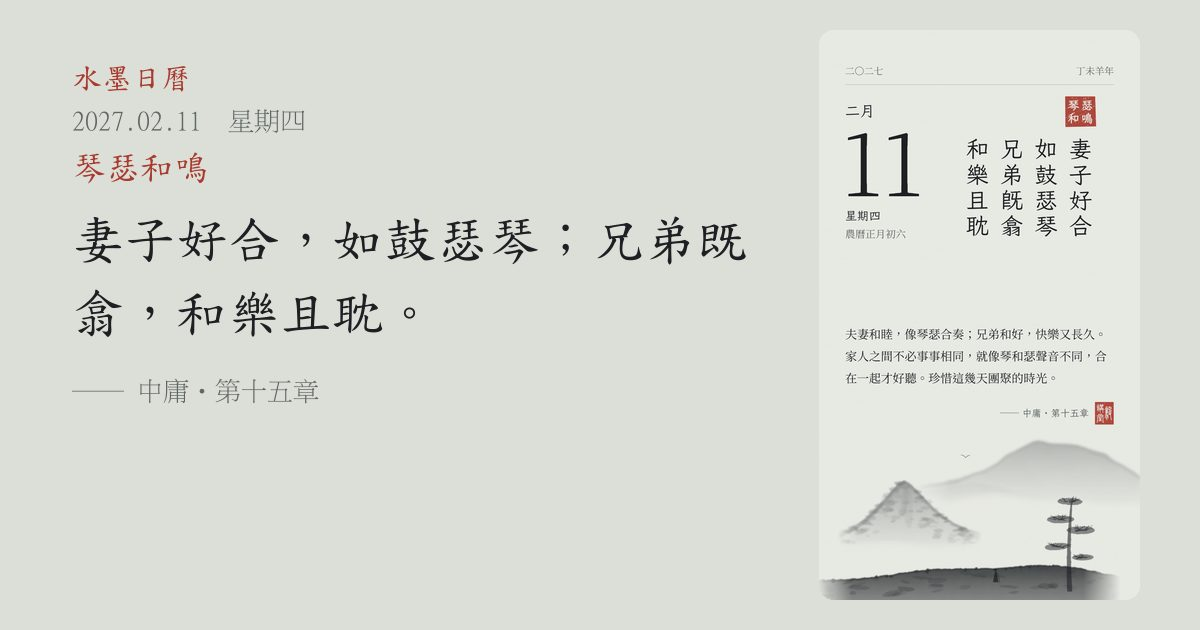
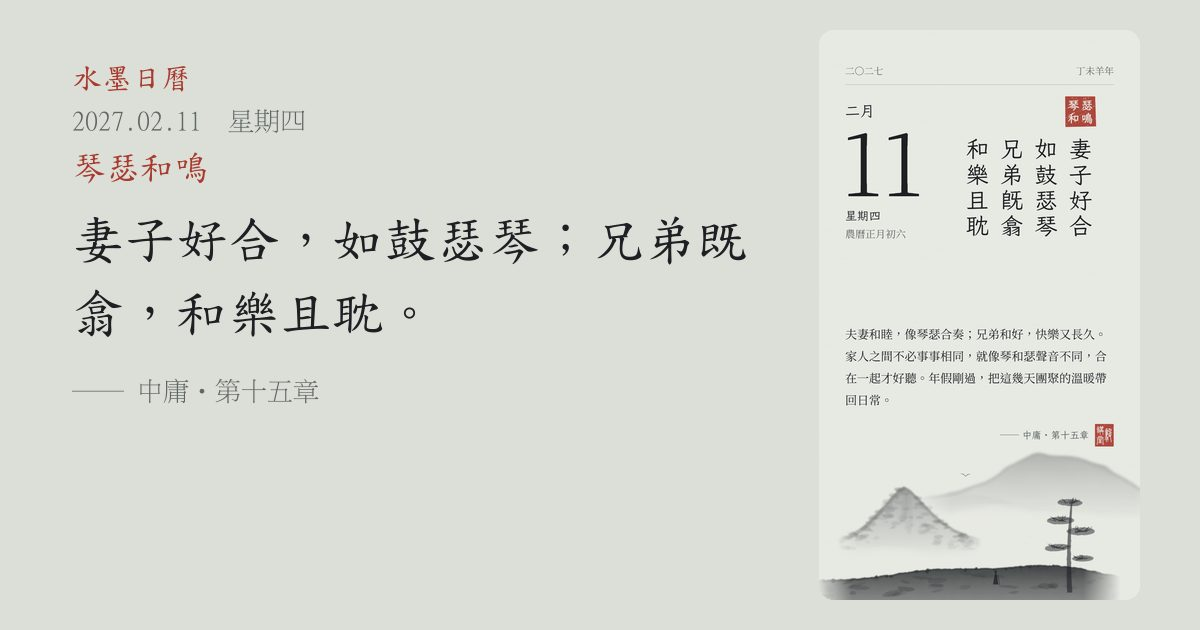
依 116 年辦公日曆表核對 2027：修正 2/11 開工日的用語

diff --git a/sw.js b/sw.js
@@ -1,6 +1,6 @@
 // 離線快取：網頁、程式與每月內容用「先網路、失敗再用快取」；圖片、字型等素材用「先快取、背景更新」。
 // 改版時把 VERSION 加一，舊快取會自動清掉。
-const VERSION = 'ink-calendar-v12';
+const VERSION = 'ink-calendar-v13';
 const CORE = [
   './', 'index.html', 'manifest.webmanifest', 'css/style.css',
   'js/vendor/lunar.js', 'js/lunar-info.js', 'js/ink.js', 'js/scene.js', 'js/card.js', 'js/export.js', 'js/app.js', 'js/remind.js',

diff --git a/PROGRESS.md b/PROGRESS.md
@@ -59,3 +59,5 @@
 - validate.py 漏洞：原文用字和文庫分段不同（例如金剛經 即／則）時，篇章檢查會默默跳過。
   現在這種情況要列在 `tools/篇章人工核對.txt`（日期|出處）才放行；已人工核對 7 則。守衛已注入測試：刪一行、改回錯篇章都會 exit 1。
 - validate 需要的 opencc：`pip install opencc-python-reimplemented` 可用。
+- 2026-10-24 依人事總處《116年政府行政機關辦公日曆表》核對 2027 全年：平日放假日、節氣、農曆節日（臘八 1/15、元宵 2/20、端午 6/9、
+  七夕與立秋與父親節同在 8/8、中元 8/16、中秋 9/15、重陽與寒露同在 10/8）都與短文一致。只改了 2027-02-11（開工日卻寫「珍惜這幾天團聚」）。
